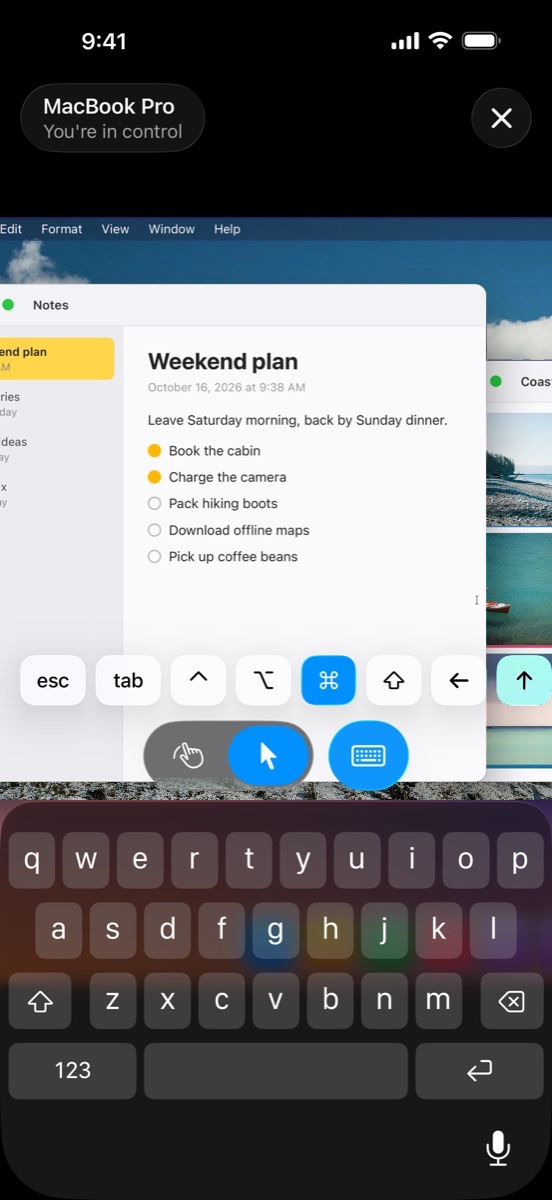
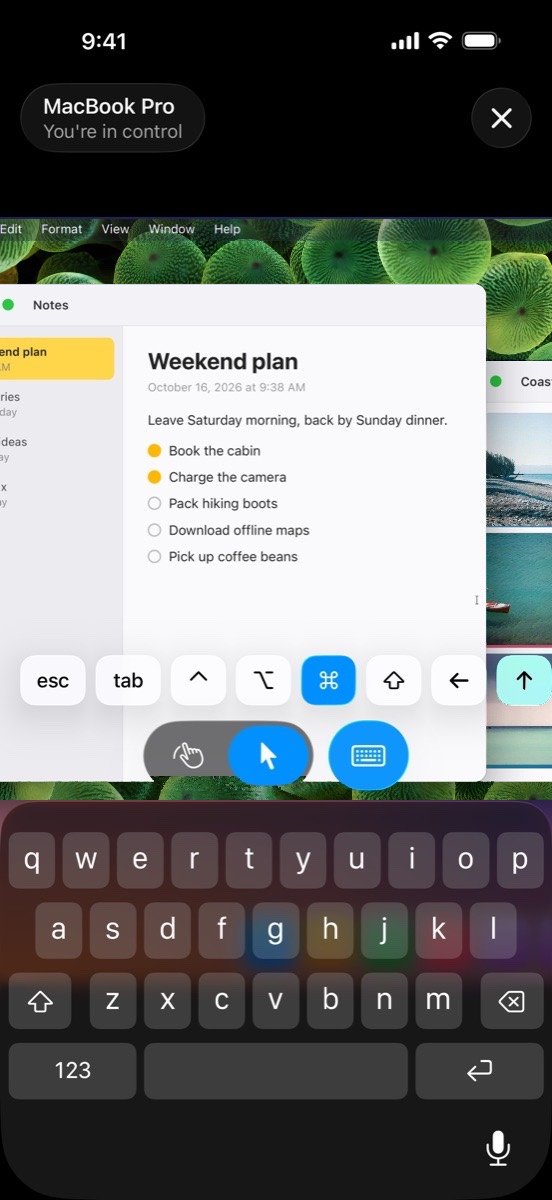
Use the classic clownfish wallpaper on the site's mock Mac desktop
The four site screenshots that show the Mac desktop now use Apple's old
clownfish wallpaper instead of the mountain photo. The App Store
screenshots keep the original desktop.

Changed region(s): [[0.0, 0.1542, 1.0, 0.3083], [0.0, 0.6475, 1.0, 0.6783]]

diff --git a/design/app-store/source/desktop-clownfish.html b/design/app-store/source/desktop-clownfish.html
@@ -1,0 +1,39 @@
+<!doctype html><html><head><meta charset="utf-8"><style>
+*{box-sizing:border-box;margin:0;padding:0}
+html,body{width:1280px;height:800px;overflow:hidden;font-family:-apple-system,"SF Pro Text",system-ui;-webkit-font-smoothing:antialiased}
+body{background:#28344a url(assets/wallpaper-clownfish.jpg) center/cover no-repeat;}
+.menubar{position:absolute;top:0;left:0;right:0;height:24px;background:rgba(30,30,50,.35);backdrop-filter:blur(20px);color:#fff;font-size:13px;display:flex;align-items:center;padding:0 14px;gap:20px}
+.menubar b{font-weight:600}.menubar .r{margin-left:auto;display:flex;gap:16px;align-items:center}
+.win{position:absolute;background:#fafafc;border-radius:12px;box-shadow:0 22px 60px rgba(0,0,0,.45),0 0 0 .5px rgba(0,0,0,.3);overflow:hidden}
+.bar{height:44px;display:flex;align-items:center;padding:0 14px;gap:8px;border-bottom:1px solid #e3e3e8;background:#f3f3f6}
+.dot{width:12px;height:12px;border-radius:50%}.d1{background:#ff5f57}.d2{background:#febc2e}.d3{background:#28c840}
+.title{font-size:13px;font-weight:600;color:#333;margin-left:12px}
+.notes{left:90px;top:70px;width:560px;height:520px;display:flex;flex-direction:column}
+.notes .body{display:flex;flex:1}
+.side{width:180px;background:#ececf0;border-right:1px solid #e0e0e6;padding:12px 8px;font-size:12px;color:#444}
+.side div{padding:7px 10px;border-radius:7px;margin-bottom:3px}.side .sel{background:#ffd54a;color:#222;font-weight:600}
+.side small{display:block;color:#888;font-size:11px;margin-top:2px;font-weight:400}
+.doc{flex:1;padding:22px 26px;color:#222}
+.doc h1{font-size:24px;margin-bottom:6px}.doc .date{color:#999;font-size:12px;margin-bottom:16px}
+.doc p,.doc li{font-size:14px;line-height:1.55}.doc ul{margin:10px 0 0 18px}.doc li{margin-bottom:6px}
+.chk{display:inline-block;width:14px;height:14px;border:1.5px solid #bbb;border-radius:50%;margin-right:8px;vertical-align:-2px}
+.chk.on{background:#ffb800;border-color:#ffb800}
+.photos{left:600px;top:150px;width:600px;height:440px}
+.grid{display:grid;grid-template-columns:repeat(3,1fr);gap:6px;padding:10px}
+.ph{height:120px;border-radius:6px}
+.p1{background:#ccc url(assets/photos/13.jpg) center/cover}.p2{background:#ccc url(assets/photos/14.jpg) center/cover}.p3{background:#ccc url(assets/photos/37.jpg) center/cover}.p4{background:#ccc url(assets/photos/124.jpg) center/cover}.p5{background:#ccc url(assets/photos/162.jpg) center/cover}.p6{background:#ccc url(assets/photos/213.jpg) center/cover}.p7{background:#ccc url(assets/photos/218.jpg) center/cover}.p8{background:#ccc url(assets/photos/270.jpg) center/cover}.p9{background:#ccc url(assets/photos/271.jpg) center/cover}
+.dock{position:absolute;bottom:8px;left:50%;transform:translateX(-50%);display:flex;gap:10px;padding:8px 12px;background:rgba(255,255,255,.22);backdrop-filter:blur(20px);border-radius:22px;border:.5px solid rgba(255,255,255,.35)}
+.app{width:52px;height:52px;background:center/contain no-repeat}
+.a1{background-image:url(assets/dock/finder.png)}.a2{background-image:url(assets/dock/safari.png)}.a3{background-image:url(assets/dock/messages.png)}.a4{background-image:url(assets/dock/mail.png)}.a5{background-image:url(assets/dock/photos.png)}.a6{background-image:url(assets/dock/notes.png)}.a7{background-image:url(assets/dock/calendar.png)}.a8{background-image:url(assets/dock/music.png)}
+</style></head><body>
+<div class="menubar"><b>&#xF8FF;</b><b>Notes</b><span>File</span><span>Edit</span><span>Format</span><span>View</span><span>Window</span><span>Help</span>
+<span class="r"><span>100%</span><span>Fri Oct 16</span><span>9:41 AM</span></span></div>
+<div class="win photos"><div class="bar"><span class="dot d1"></span><span class="dot d2"></span><span class="dot d3"></span><span class="title">Coast Trip</span></div>
+<div class="grid"><div class="ph p1"></div><div class="ph p2"></div><div class="ph p3"></div><div class="ph p4"></div><div class="ph p5"></div><div class="ph p6"></div><div class="ph p7"></div><div class="ph p8"></div><div class="ph p9"></div></div></div>
+<div class="win notes"><div class="bar"><span class="dot d1"></span><span class="dot d2"></span><span class="dot d3"></span><span class="title">Notes</span></div>
+<div class="body"><div class="side"><div class="sel">Weekend plan<small>9:38 AM</small></div><div>Groceries<small>Yesterday</small></div><div>Book ideas<small>Tuesday</small></div><div>Bike fix<small>Monday</small></div></div>
+<div class="doc"><h1>Weekend plan</h1><div class="date">October 16, 2026 at 9:38 AM</div>
+<p>Leave Saturday morning, back by Sunday dinner.</p>
+<ul style="list-style:none;margin-left:0"><li><span class="chk on"></span>Book the cabin</li><li><span class="chk on"></span>Charge the camera</li><li><span class="chk"></span>Pack hiking boots</li><li><span class="chk"></span>Download offline maps</li><li><span class="chk"></span>Pick up coffee beans</li></ul></div></div></div>
+<div class="dock"><div class="app a1"></div><div class="app a2"></div><div class="app a3"></div><div class="app a4"></div><div class="app a5"></div><div class="app a6"></div><div class="app a7"></div><div class="app a8"></div></div>
+</body></html>

diff --git a/design/app-store/README.md b/design/app-store/README.md
@@ -23,6 +23,10 @@ To make them again:
 photos from Unsplash (fetched through picsum.photos, Unsplash License), and the Dock icons
 exported from the macOS apps with `sips -s format png -Z 128 <App>.app/Contents/Resources/<icon>.icns`.
 
+The website screenshots use `source/desktop-clownfish.html`, the same desktop with Apple's classic
+clownfish wallpaper (`assets/wallpaper-clownfish.jpg`, an upscale from
+https://www.reddit.com/r/wallpapers/comments/e7x2ty/). The App Store screenshots still use `desktop.html`.
+
 ## Updating the website screenshots without re-capturing
 
 `source/swap.swift` replaces the desktop inside an existing screenshot with a re-rendered one.
@@ -33,4 +37,5 @@ the old desktop, so the app's own controls on top are kept.
 2. `swiftc -O source/swap.swift -o swap`
 3. `./swap shot.jpg old.png new.png out.jpg [jpeg quality] [scale x y] [stop row]`
    The optional `scale x y` gives a starting position when the screen is mostly covered
-   (the keyboard shot used `0.4728 -131.1 218.7 800`).
+   (the keyboard shot used `0.4728 -131.1 218.7 800`, the iPhone session shot `0.4785 -48.9 216.9`
+   and the Vision Pro shot `0.48 286 86`).
